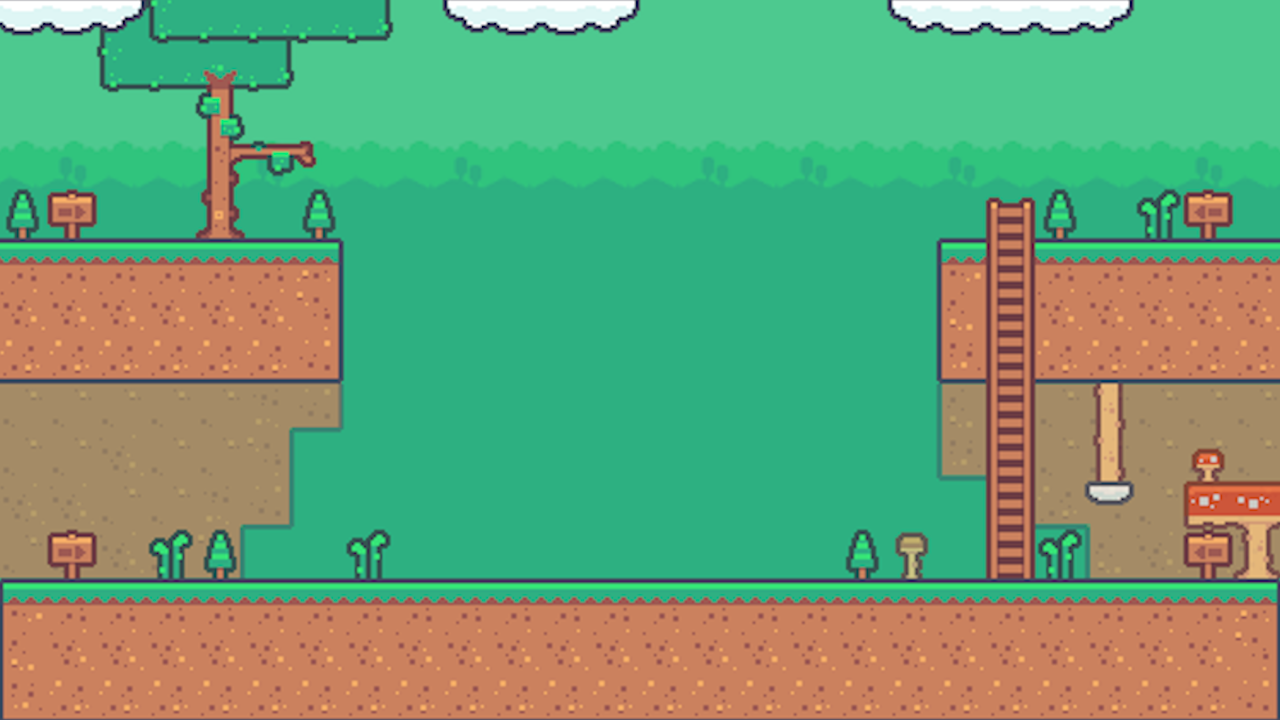
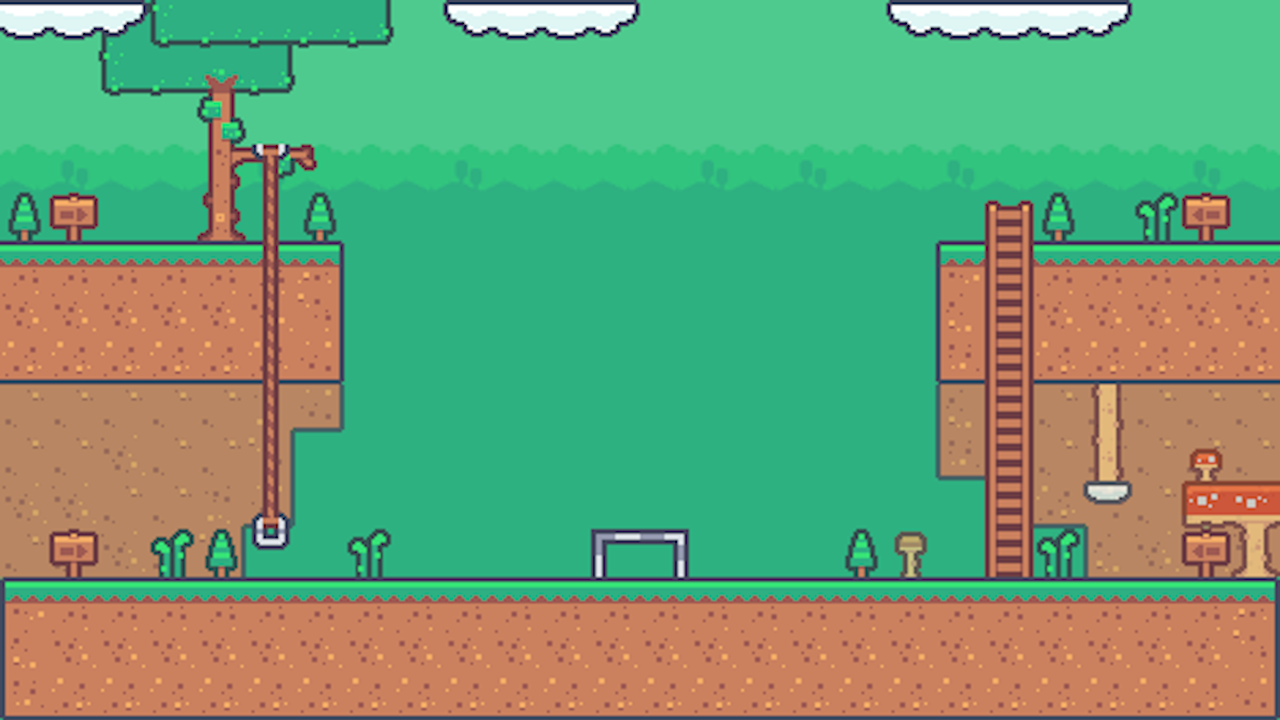
Platformcolliders pc relocation player gravity fix

diff --git a/Sandbox/BasicGame/src/datajungle/components/PC.java b/Sandbox/BasicGame/src/datajungle/components/PC.java
@@ -11,10 +11,10 @@ import java.awt.*;
 public class PC {
 
     //Collider collider;
-    Spritesheet sheet = new Spritesheet("./assets/images/sheets/objects.png", 96, 64, 32, 64, 1);
+    Spritesheet sheet = new Spritesheet("./assets/images/sheets/objects.png", 192, 64, 63, 64, 2);
 
     int dataTransfered = 0;
-    int dataToTransfer = 10;
+    int dataToTransfer = 90;
     int dataTransferRate = 1; // How much data gets sent every .1 seconds
 
     long lastDataTransfer = System.currentTimeMillis();
@@ -53,15 +53,15 @@ public class PC {
     }
 
     private void draw() {
-        int barX = this.x + 4;
+        int barX = this.x + 9 - sheet.getImage(1).getWidth() / 2;
         int barY = this.y + sheet.getImage(1).getHeight() / 2 - 13;
-        int width = sheet.getImage(1).getWidth() - 8;
-        int height = 5;
+        int width = sheet.getImage(1).getWidth() - 20;
+        int height = 9;
 
         SaxionApp.setBorderSize(0);
 
         Image img = sheet.getImage(1);
-        img.setX(x);
+        img.setX(x - sheet.getImage(1).getWidth() / 2);
         img.setY(y);
         SaxionApp.add(img);
         SaxionApp.setFill(Color.GRAY);

diff --git a/Sandbox/BasicGame/src/datajungle/scenes/BaseScene.java b/Sandbox/BasicGame/src/datajungle/scenes/BaseScene.java
@@ -13,9 +13,9 @@ public class BaseScene extends Scene {
         super("base_scene", true);
     }
 
-    //public CollisionBox floorCollider = new CollisionBox(0, 570, SaxionApp.getWidth(), SaxionApp.getHeight() - 590, true);
     public Collider floorCollider = new Collider(0, 590, SaxionApp.getWidth(), SaxionApp.getHeight() - 700);
-
+    public Collider platformLeftCollider = new Collider(0, 250, 343, 70);
+    public Collider platformRightCollider = new Collider(SaxionApp.getWidth() - 343, 250, 343, 70);
 
     Player player;
     PC pc;
@@ -23,7 +23,7 @@ public class BaseScene extends Scene {
     @Override
     public void init() {
         player = new Player();
-        pc = new PC(SaxionApp.getWidth() / 2, 520);
+        pc = new PC(SaxionApp.getWidth() / 2, 467);
     }
 
     @Override

diff --git a/Sandbox/BasicGame/src/datajungle/components/Player.java b/Sandbox/BasicGame/src/datajungle/components/Player.java
@@ -83,7 +83,7 @@ public class Player {
         if (!hasMoved && direction == 1)
             currentAnimation = idleAnimationRight;
 
-        isGrounded = collider.isColliding(CollisionManager.getColliders(), 0, 0);
+        isGrounded = collider.isColliding(CollisionManager.getColliders(), 0, -5);
 
         if (keysPressed[KeyEvent.VK_SPACE] && !isJumping && isGrounded) {
             isJumping = true;

diff --git a/Sandbox/BasicGame/src/datajungle/BasicGame.java b/Sandbox/BasicGame/src/datajungle/BasicGame.java
@@ -34,8 +34,6 @@ public class BasicGame implements GameLoop {
         currentScene = new BaseScene();
         // Initialiseer de scene
         currentScene.init();
-
-
     }
 
     @Override
